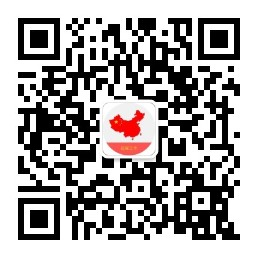
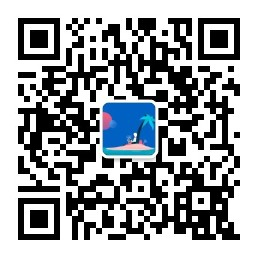
更新公众号的图标和二维码，修正 markdown 语法错误

Changed region(s): [[0.3721, 0.3721, 0.6202, 0.6202]]

diff --git a/README.md b/README.md
@@ -1,13 +1,12 @@
-
 <p align="center">
   <img src="https://github.com/greatghoul/remote-working/blob/master/assets/icon.png?raw=true" width="86" height="86" />
-  <h3 align="center">中国远程工作资讯</h3>
+  <h3 align="center">远程工作者</h3>
 </p>
 
 收集整理国内远程工作相关的资源，如果比较关心国外的资源，可以看看[其他人整理的列表](#其它列表)。一些时效性的资源（比如工作机会），我会在下面的渠道更新，欢迎关注。
 
 **Telegram 频道**  
-https://t.me/remote_cn
+<https://t.me/remote_cn>
 
 **微信公众平台**  
 搜索微信公众号 `remote-cn`，或者扫码关注  
@@ -55,7 +54,7 @@ https://t.me/remote_cn
 - `2018-02-10` [自由职业第二年，迷茫之上，蒙逼未满](http://yizaoyiwan.com/discussions/1585)
 - `2018-02-07` [中年猿远程办公半月记](https://www.v2ex.com/t/429129)
 - `2018-02-03` [远程二三事](https://medium.com/@vorya/%E8%BF%9C%E7%A8%8B%E4%BA%8C%E4%B8%89%E4%BA%8B-8a33a7f69091)
-- `2018-01-24` [Coding 技术小馆 | 远程办公工作流分享](https://mp.weixin.qq.com/s/a74QUuHQztZZD_BDzlYCoA)
+- `2018-01-24` [Coding 技术小馆 \| 远程办公工作流分享](https://mp.weixin.qq.com/s/a74QUuHQztZZD_BDzlYCoA)
 - `2018-01-15` [记录009：远程工作需要注意什么-180107](https://mp.weixin.qq.com/s/JW2ZdfYwPiR_HJS9TatHMQ)
 - `2018-01-04` [远程工作看起来理想，但其实有些压力你可能不会想到](https://www.qdaily.com/articles/48777.html)
 - `2018-01-01` [除了拖延，远程工作的压力还来自“不知道老板在想什么”](https://mp.weixin.qq.com/s/kmgFuuNIKcDW2dt2OuPHCA)
@@ -82,7 +81,7 @@ https://t.me/remote_cn
 - `2017-10-05` [远程办公，你需要克服这些困难](https://mp.weixin.qq.com/s/zvWMgiHWlWk-bQju4V-eoQ)
 - `2017-10-07` [在家工作时怎样能保持效率？这里有一份简单的指南](http://www.qdaily.com/articles/45761.html)
 - `2017-09-27` [自由职业的利与弊](http://yizaoyiwan.com/discussions/1450)
-- `2017-09-14` [科技 | 远程办公成为现实：合理性与可持续性受到质疑](https://mp.weixin.qq.com/s/RcwdKt2GGxQBu0Ah_1YcEA)
+- `2017-09-14` [科技 \| 远程办公成为现实：合理性与可持续性受到质疑](https://mp.weixin.qq.com/s/RcwdKt2GGxQBu0Ah_1YcEA)
 - `2017-09-11` [远程办公 当梦想成为现实](http://paper.people.com.cn/rmrbhwb/html/2017-09/11/content_1804329.htm)
 - `2017-09-07` [“百城万人”残疾人远程就业公益项目](https://mp.weixin.qq.com/s/5gMTNPOcLH-yoN7BmvgAOA)
 - `2017-08-19` [孤独狩猎——选择自由职业的年轻人们](https://www.douban.com/note/633805058/)
@@ -143,7 +142,7 @@ https://t.me/remote_cn
 
 - `2015-12-21` [提升远程团队战斗力的 11 种方法](http://tech2ipo.com/10026456)
 - `2015-12-13` [创业团队不需要office，大家都远程工作，are you fxxx kidding me?](http://www.yizaoyiwan.com/discussions/623)
-- `2015-10-28` [严俊羿 | 自由是最大的向往](http://yizaoyiwan.com/stories/6)
+- `2015-10-28` [严俊羿 \| 自由是最大的向往](http://yizaoyiwan.com/stories/6)
 - `2015-10-15` [不想去办公室？设计师远程工作必读指南！](http://www.uisdc.com/freelancer-remote-work-guideline#)
 - `2015-10-10` [现在有公司要远程工作的员工么？](https://ruby-china.org/topics/27614)
 - `2015-08-22` [如何去管理一个远程工作团队](http://tech2ipo.com/101330)
@@ -304,7 +303,7 @@ https://t.me/remote_cn
 - [SegmentFault 招聘](https://segmentfault.com/jobs/search?remote=1) - SegmentFault 的招聘版块中支持按远程筛选
 - [七星远程](http://www.remotejob.cn/) - 远程工作招聘信息的聚合网站
 - [远程.work](http://yuancheng.work/) - 远程工作招聘信息的聚合网站
-- [Indeed | 远程](https://cn.indeed.com/%E5%B7%A5%E4%BD%9C-%E8%BF%9C%E7%A8%8B%E5%8A%9E%E5%85%AC) - Indeed 远程办公版块，可以找到一些非研发类的远程工作
+- [Indeed \| 远程](https://cn.indeed.com/%E5%B7%A5%E4%BD%9C-%E8%BF%9C%E7%A8%8B%E5%8A%9E%E5%85%AC) - Indeed 远程办公版块，可以找到一些非研发类的远程工作
 - [We Work Remotely](https://weworkremotely.com/) - 寻找或者发布远程工作机会
 - [Stackoverflow Careers](https://stackoverflow.com/jobs/remote-developer-jobs) - Stackoverflow 的招聘频道，提供专门的过滤项来检索远程职位
 - [Work from Home](https://www.wfh.io/) - 国外一个发布远程招聘帖的网站，比较特色的是它会列出支持远程工作的公司列表。
@@ -328,7 +327,7 @@ https://t.me/remote_cn
 ## <a name="blogs"></a>博客媒体
 
 - [朝露](http://www.littledew.com/) - 自由工作生涯的探索之路
-- [Jarodise | 数字游民部落](https://jarodise.com/) - 一个以数字游民（Digital Nomad)生活方式，Lifestyle Design方法论和环球旅行为主题的中文博客。
+- [Jarodise \| 数字游民部落](https://jarodise.com/) - 一个以数字游民（Digital Nomad)生活方式，Lifestyle Design方法论和环球旅行为主题的中文博客。
 - [sideidea独立黑客](https://xiaozhuanlan.com/sideidea) - 采访独立开发者和远程工作者做产品盈利的故事。
 - [Remote and Rich](https://zhuanlan.zhihu.com/remoteandrich) - 关于边工作边环游世界的探讨和追逐。
 - [中国远程工作资讯](https://t.me/remote_cn) - Telegram 频道，分享国内远程工作相关的文章、讨论和工作机会等。
